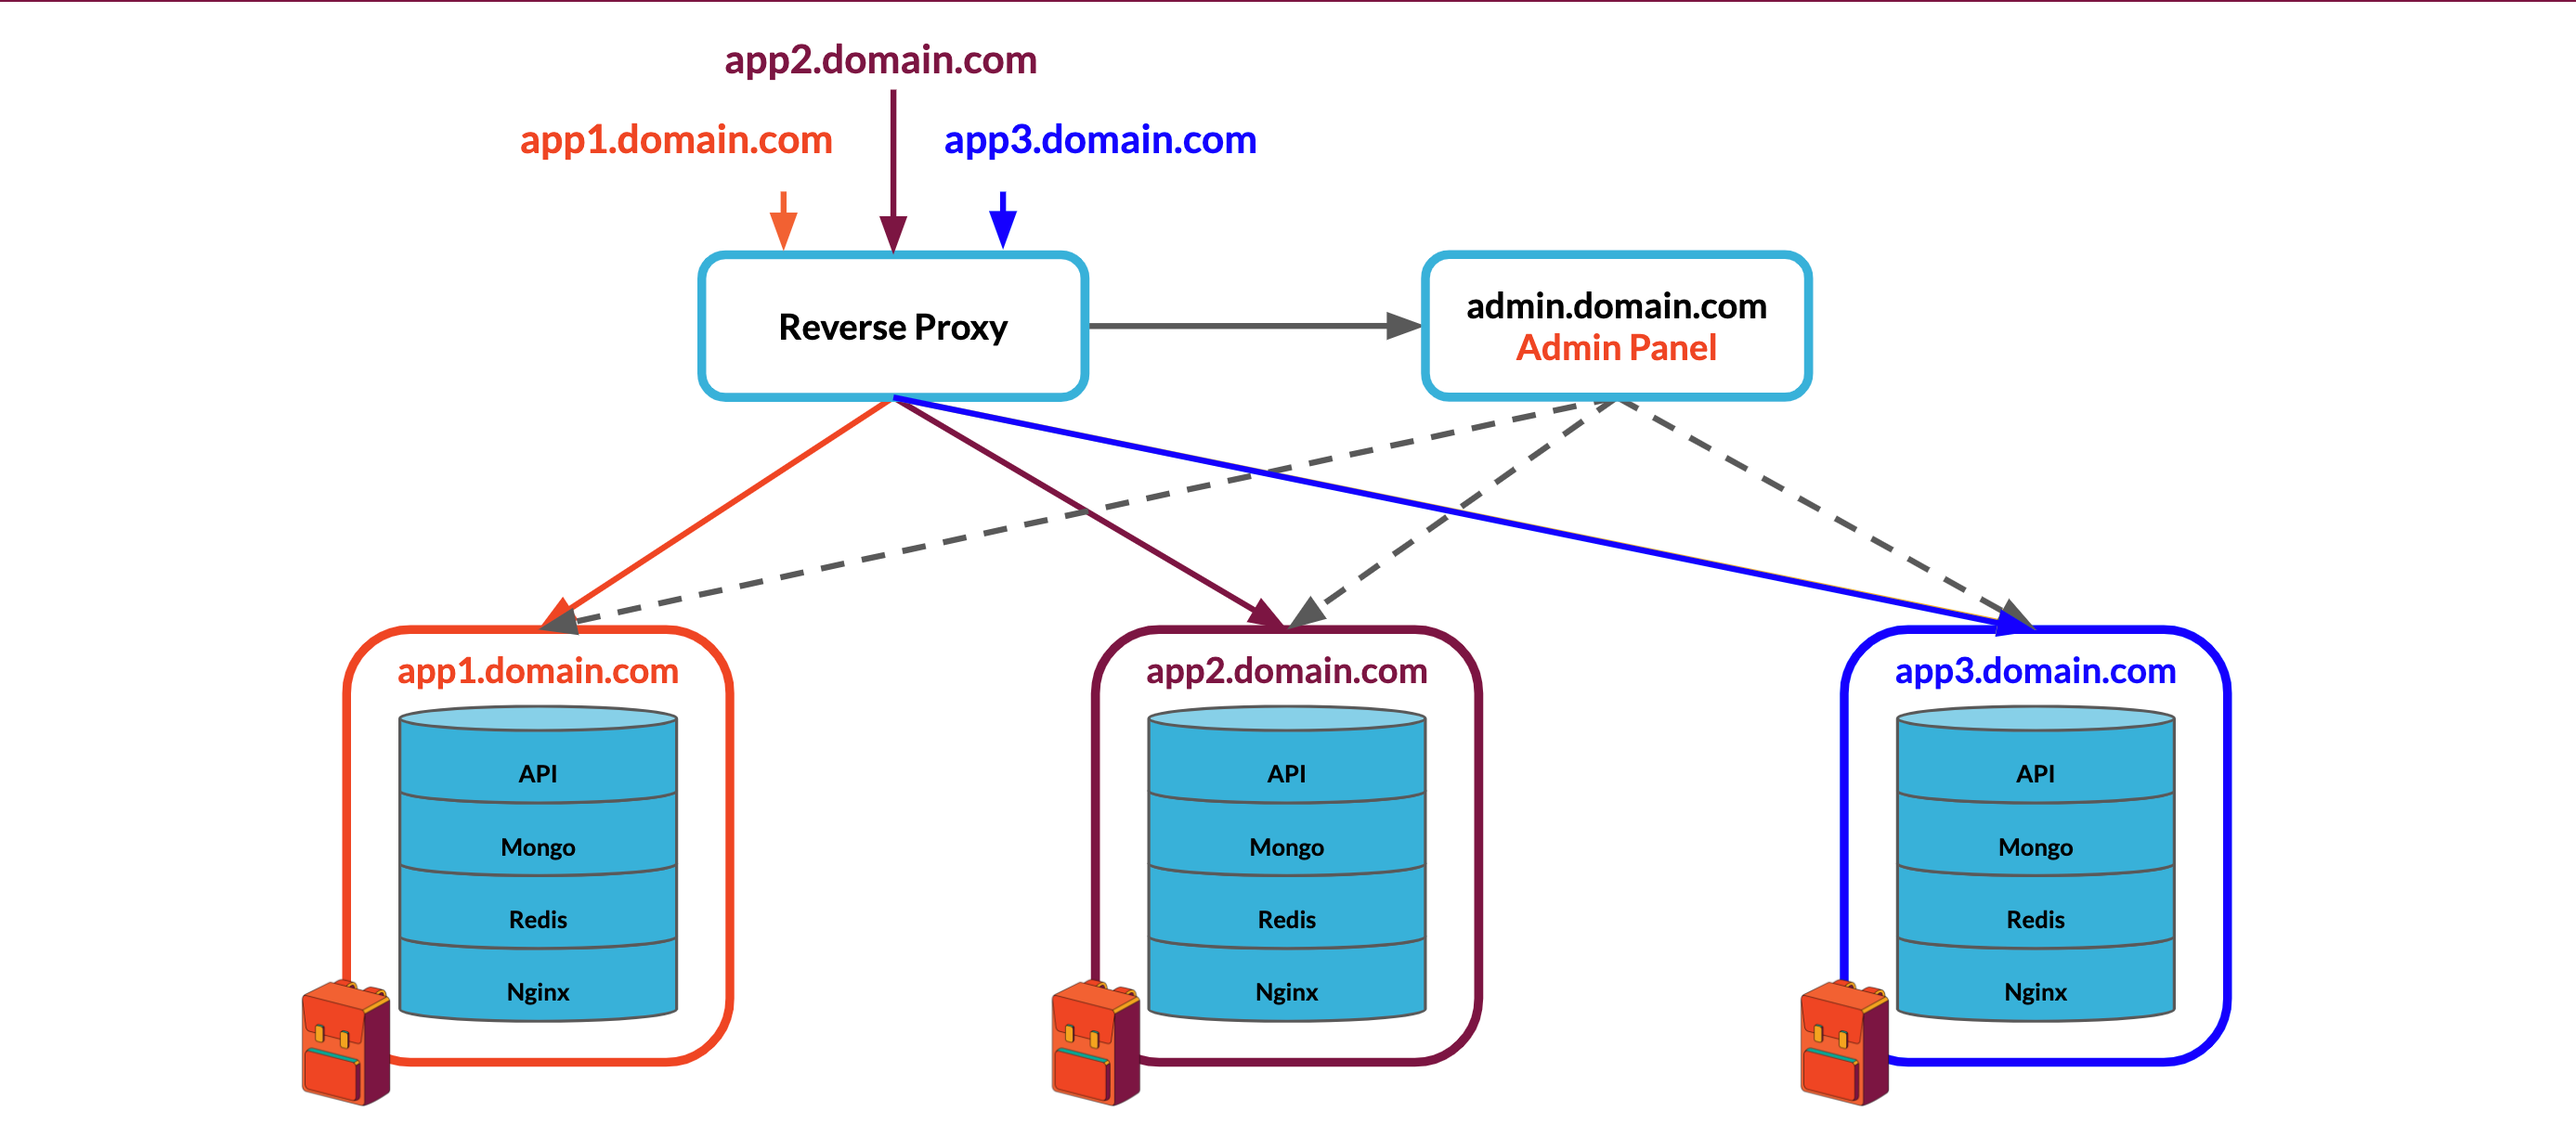
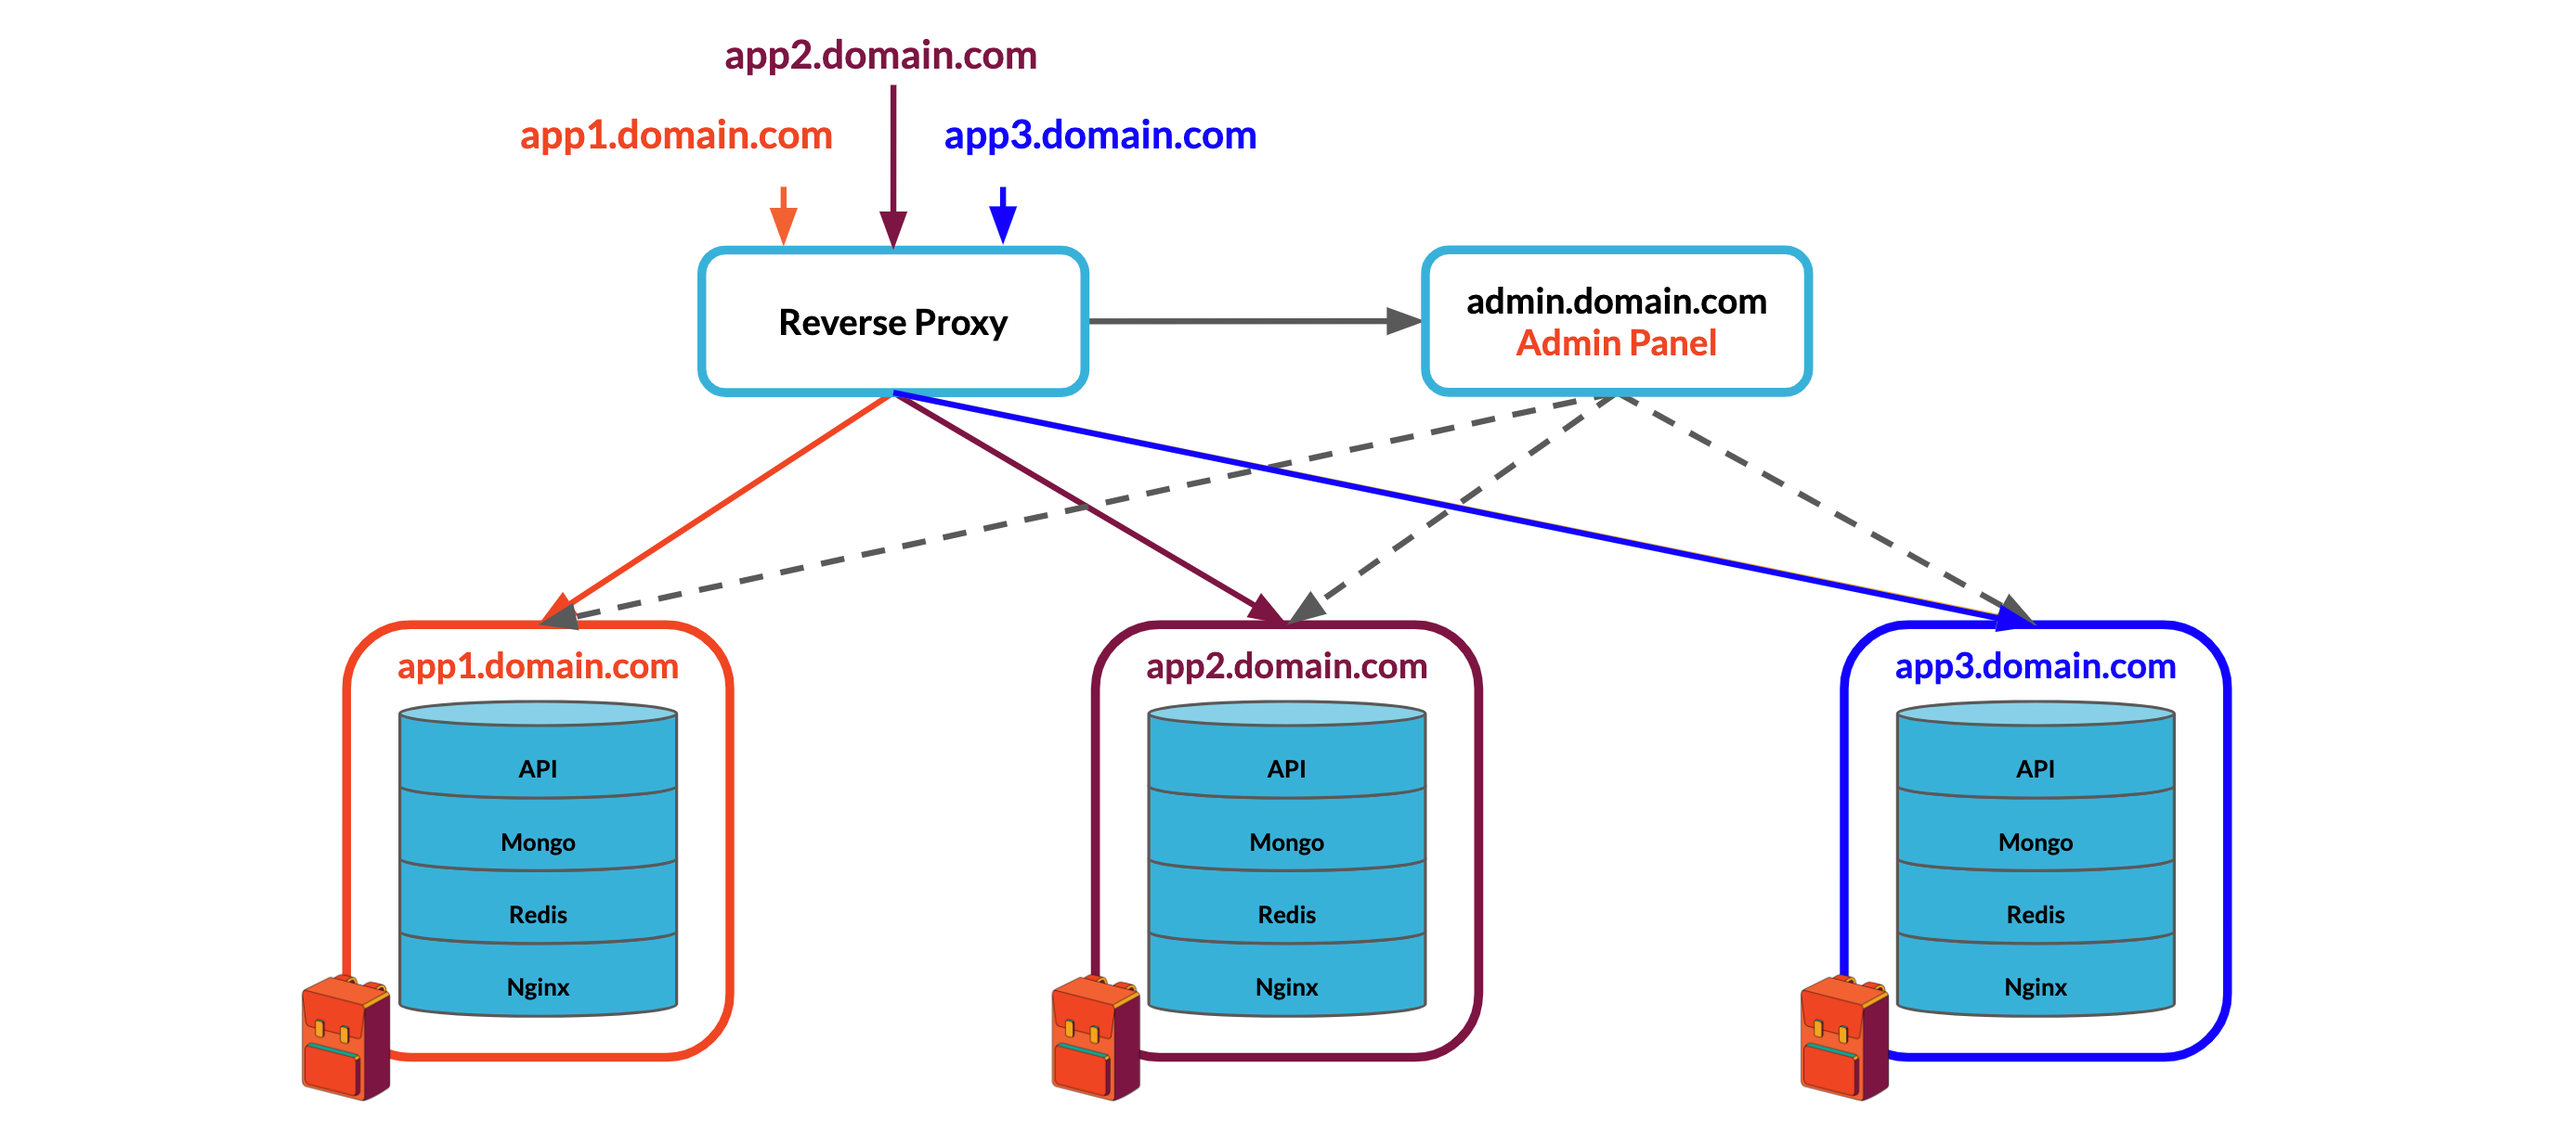
Margins and broken image fix

diff --git a/case_study.html b/case_study.html
@@ -704,7 +704,6 @@
         sharing a single Backpack deployment, this either creates a huge security concern if they are all given access,
         or it causes a major inconvenience for whoever is administering the system. Furthermore, we did not feel like
         our users should need to know anything about how to run Docker commands in order to use our system.</p>
-      <p>============================= diagram of painful CLI commands? =====================</p>
       <p>Our first step was to build an admin panel that could register and authenticate frontend developers using our
         system. They would be the only ones authorized to access any of this stack management functionality. Once signed
         in, the frontend developers are presented with a UI that lets them spin up a new Backpack stack by assigning it

diff --git a/stylesheets/styles.css b/stylesheets/styles.css
@@ -296,7 +296,7 @@ article.case-study h5 {
 
 article.case-study img {
   display: block;
-  margin: 0 auto;
+  margin: 2rem auto;
   max-width: 100%;
 }
 
